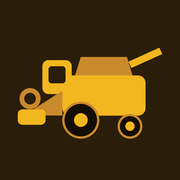
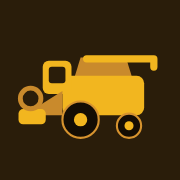
1.0.67: lay the combine auger flat on the tank
The header mark and the app icons keep the current combine. The unloading auger now runs along the top of the grain tank, a short way past the rear, with a small downspout.

diff --git a/index.html b/index.html
@@ -591,9 +591,9 @@ dialog.csheet::backdrop{background:rgba(0,0,0,.42)}
   <div class="bar">
     <h1 class="brand">
       <svg viewBox="0 0 48 32" aria-hidden="true" class="combine">
-        <path d="M37 7 47 2.5" stroke="var(--seg-lead)" stroke-width="2.4" stroke-linecap="round"/>
         <path d="M19 11 21 4.5h15l2 6.5z" fill="var(--seg-out)"/>
         <rect x="15" y="10.5" width="27" height="13" rx="2.5" fill="var(--seg-lead)"/>
+        <path d="M23 4.9 H45.2 V7.6" fill="none" stroke="var(--seg-lead)" stroke-width="2.4" stroke-linecap="round" stroke-linejoin="round"/>
         <rect x="8.5" y="5.5" width="9.5" height="11" rx="2" fill="var(--seg-lead)"/>
         <rect x="10.5" y="7.5" width="5.5" height="5.5" rx="1" fill="var(--res-bg)" opacity=".75"/>
         <path d="M4 22.5 15 15.5v8H6z" fill="var(--seg-out)"/>
@@ -2706,7 +2706,7 @@ void resumeAuto();
 
 // offline support when hosted on its own site (ignored elsewhere)
 // ---- version + updates (only when hosted as the installable app)
-const APP_VERSION='1.0.66';
+const APP_VERSION='1.0.67';
 $('verNow').textContent='v'+APP_VERSION;
 const HOSTED=!!window.STRIKEOUT_PWA&&(location.protocol==='https:'||location.hostname==='localhost');
 let latest=null;

diff --git a/sw.js b/sw.js
@@ -2,7 +2,7 @@
 // When you publish an update: bump APP_VERSION in index.html AND "version" in version.json.
 // Bump VERSION to a new cache name that includes that app version so phones drop the old cache.
 // Never add version.json here — the update check must always hit the network.
-const VERSION = 'strikeout-cache-1.0.66';
+const VERSION = 'strikeout-cache-1.0.67';
 const CORE = [
   './',
   './index.html',
